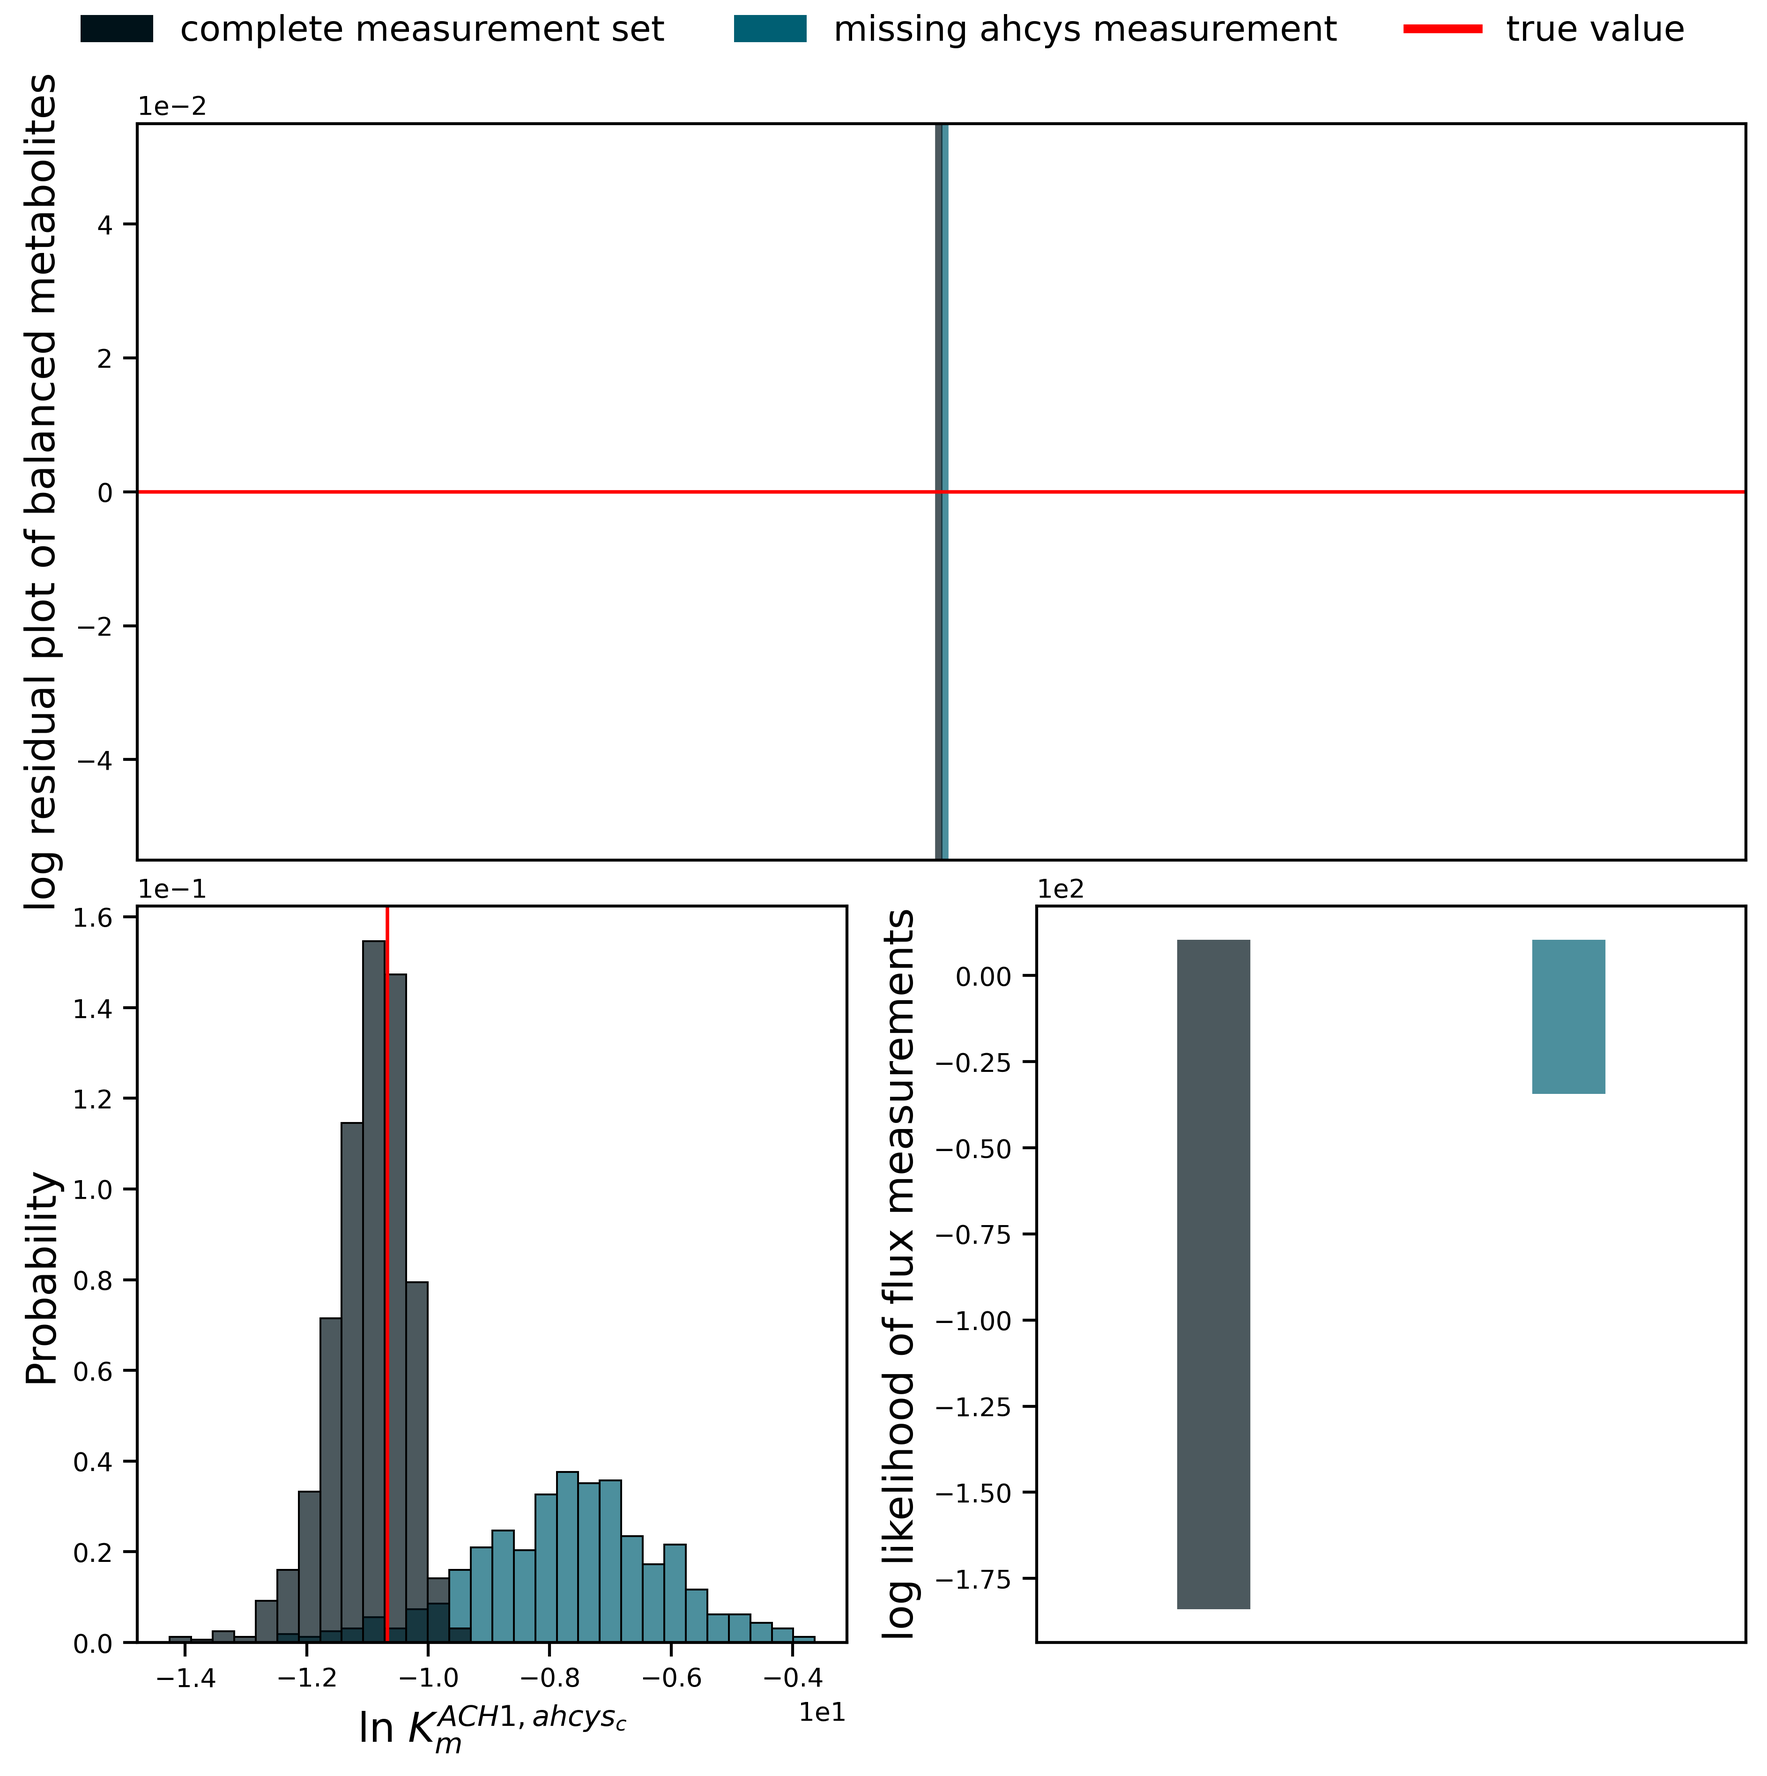
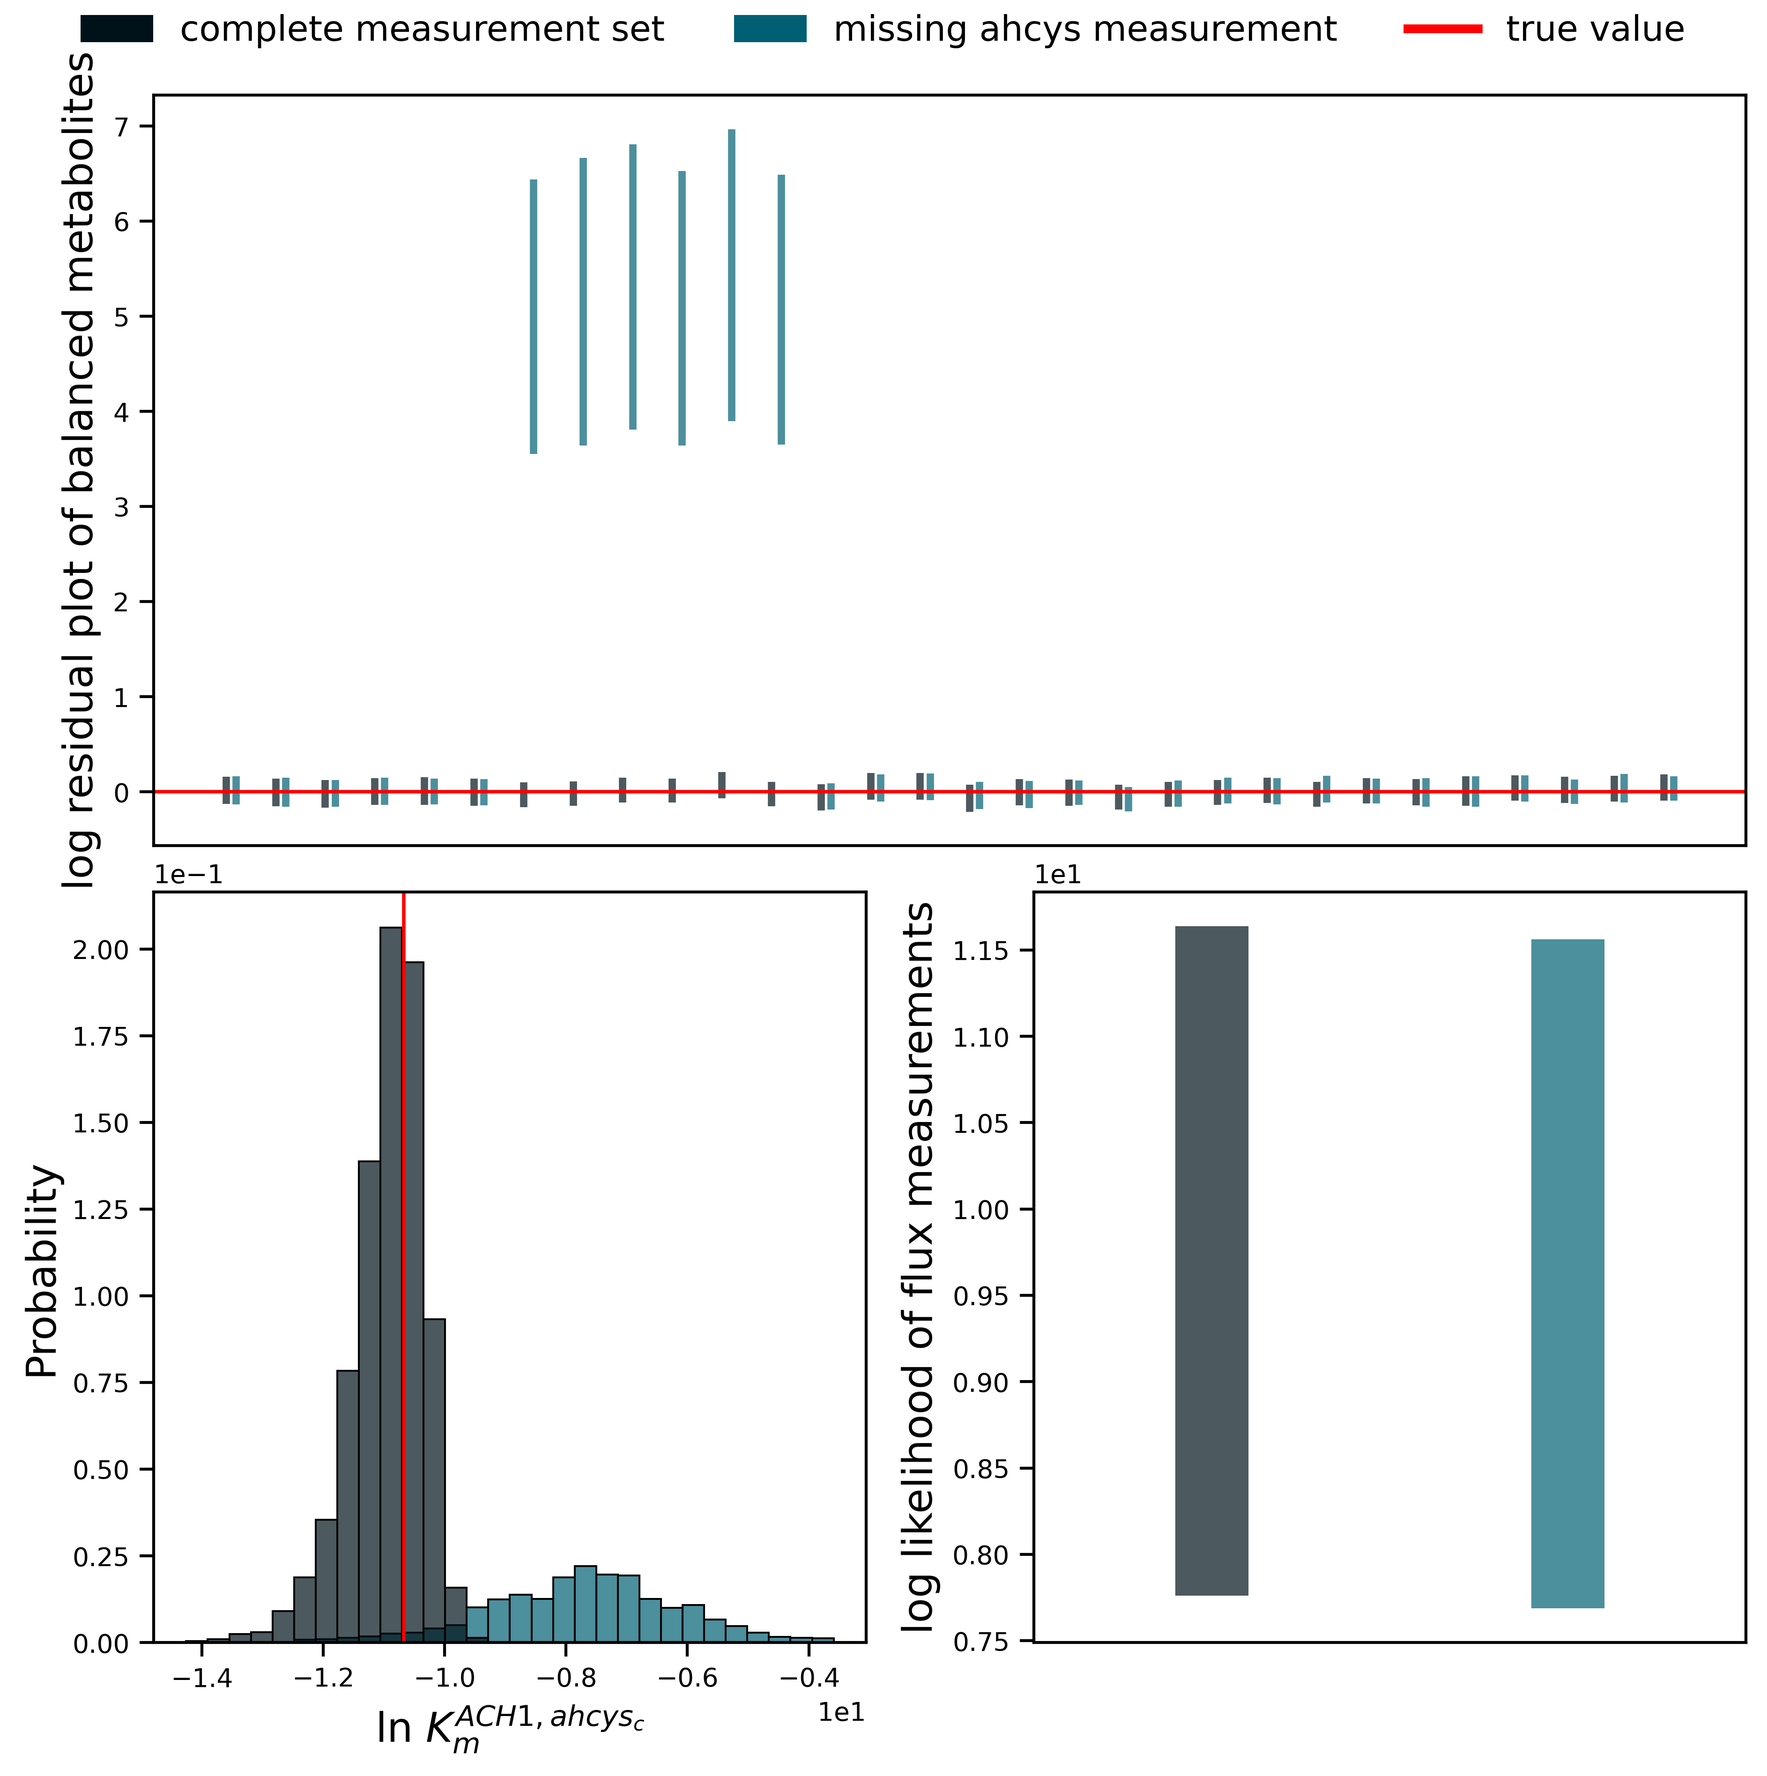
fix figure 3

diff --git a/plot_figure_3.py b/plot_figure_3.py
@@ -31,7 +31,7 @@ from matplotlib.lines import Line2D
 from maud.loading_maud_inputs import load_maud_input
 from maud.getting_idatas import get_idata
 
-plt.style.use('ipynb')
+plt.style.use("ipynb")
 
 
 HELP_MSG = """
@@ -47,52 +47,49 @@ PLOT_OUTPUT = Path.cwd() / "figures" / "figure_3.png"
 
 colour_scheme = {
     "complete measurement set": "#001219",
-    "missing ahcys measurement": "#005F73"
+    "missing ahcys measurement": "#005F73",
 }
 
 OFFSET = 0.05
-cm = 1/2.54  # centimeters in inches
+cm = 1 / 2.54  # centimeters in inches
+
 
 def plot_residual_state_variables(residual_df, ax):
-    offset = lambda p: transforms.ScaledTranslation(p/72.,0, plt.gcf().dpi_scale_trans)
-    for id, sample in residual_df.loc[residual_df["model"]=="missing ahcys measurement"].reset_index().iterrows():
+    # offset = lambda p: transforms.ScaledTranslation(
+    #     p / 72.0, 0, plt.gcf().dpi_scale_trans
+    # )
+    for model, direction in zip(
+        ["missing ahcys measurement", "complete measurement set"], [1, -1]
+    ):
+        df = residual_df.loc[lambda df: df["model"] == model]
+        x = np.arange(len(df)) + 0.1 * direction
         ax.vlines(
-            x=id,
-            ymin=sample[0.05],
-            ymax=sample[0.95],
+            x=x,
+            ymin=df[0.05],
+            ymax=df[0.95],
             linewidth=2.5,
-            color=colour_scheme["missing ahcys measurement"],
-            transform=ax.transData+offset(+1),
+            color=colour_scheme[model],
             alpha=0.7,
         )
-    for id, sample in residual_df.loc[residual_df["model"]=="complete measurement set"].reset_index().iterrows():
-        ax.vlines(
-            x=id,
-            ymin=sample[0.05],
-            ymax=sample[0.95],
-            linewidth=2.5,
-            color=colour_scheme["complete measurement set"],
-            transform=ax.transData+offset(-1),
-            alpha=0.7
-        )
-    ax.axhline(y=0, xmin=0, xmax=len(residual_df)/2, color="red")
+    ax.axhline(y=0, xmin=0, xmax=len(residual_df) / 2, color="red")
     ax.set_ylabel("log residual plot of balanced metabolites")
     ax.get_xaxis().set_visible(False)
     return ax
 
+
 def plot_box(df, ax):
     ax.vlines(
         x="complete measurement set",
-        ymin=df.loc[df["model"]=="complete measurement set"]["lower_5_lp"],
-        ymax=df.loc[df["model"]=="complete measurement set"]["upper_95_lp"],
+        ymin=df.loc[df["model"] == "complete measurement set"]["lower_5_lp"],
+        ymax=df.loc[df["model"] == "complete measurement set"]["upper_95_lp"],
         linewidth=25,
         color=colour_scheme["complete measurement set"],
         alpha=0.7,
     )
     ax.vlines(
         x="missing ahcys_c measurement",
-        ymin=df.loc[df["model"]=="missing ahcys measurement"]["lower_5_lp"],
-        ymax=df.loc[df["model"]=="missing ahcys measurement"]["upper_95_lp"],
+        ymin=df.loc[df["model"] == "missing ahcys measurement"]["lower_5_lp"],
+        ymax=df.loc[df["model"] == "missing ahcys measurement"]["upper_95_lp"],
         linewidth=25,
         color=colour_scheme["missing ahcys measurement"],
         alpha=0.7,
@@ -102,122 +99,222 @@ def plot_box(df, ax):
     ax.get_xaxis().set_visible(False)
     return ax
 
+
 def ll_normal(value, mean, std):
-    return -np.log(2*np.pi)/2-np.log(std**2)/2-(value-mean)**2/(2*std**2)
+    return (
+        -np.log(2 * np.pi) / 2
+        - np.log(std**2) / 2
+        - (value - mean) ** 2 / (2 * std**2)
+    )
+
 
 def plot_parameter_hist(parameter_df, ax):
-    sns.histplot(parameter_df, x="ln_km", bins=30, hue="model", stat="probability", ax=ax, legend=False, alpha=0.7)
+    sns.histplot(
+        parameter_df,
+        x="ln_km",
+        bins=30,
+        hue="model",
+        stat="probability",
+        ax=ax,
+        legend=False,
+        alpha=0.7,
+    )
     ax.set_xlabel("ln $K_m^{ACH1, ahcys_c}$")
     ax.axvline(x=-10.6713582793, color="red")
     return ax
 
+
 def plot_figure():
     mi = load_maud_input(data_path=MAUD_OUTPUT / "user_input")
     mi_missing = load_maud_input(data_path=MAUD_OUTPUT_MISSING_AHCYS / "user_input")
-    csvs_methionine = [MAUD_OUTPUT/ "samples" / file for file in os.listdir(MAUD_OUTPUT/ "samples") if ".csv" in file]
+    csvs_methionine = [
+        MAUD_OUTPUT / "samples" / file
+        for file in os.listdir(MAUD_OUTPUT / "samples")
+        if ".csv" in file
+    ]
     infd_methionine = get_idata(csvs_methionine, mi=mi, mode="train")
-    csvs_methionine_missing = [MAUD_OUTPUT_MISSING_AHCYS/ "samples" / file for file in os.listdir(MAUD_OUTPUT_MISSING_AHCYS/ "samples") if ".csv" in file]
-    infd_methionine_missing = get_idata(csvs_methionine_missing, mi=mi_missing, mode="train")
+    csvs_methionine_missing = [
+        MAUD_OUTPUT_MISSING_AHCYS / "samples" / file
+        for file in os.listdir(MAUD_OUTPUT_MISSING_AHCYS / "samples")
+        if ".csv" in file
+    ]
+    infd_methionine_missing = get_idata(
+        csvs_methionine_missing, mi=mi_missing, mode="train"
+    )
 
-    flux_measurements = [{
-        "flux": meas.value, 
-        "uncertainty": meas.error_scale,
-        "reaction": meas.reaction, 
-        "experiment": meas.experiment
-    } 
-        for exp in mi.experiments 
-        for meas in exp.measurements 
-        if (meas.target_type=="flux")
+    flux_measurements = [
+        {
+            "flux": meas.value,
+            "uncertainty": meas.error_scale,
+            "reaction": meas.reaction,
+            "experiment": meas.experiment,
+        }
+        for exp in mi.experiments
+        for meas in exp.measurements
+        if (meas.target_type == "flux")
     ]
     flux_meas_df = pd.DataFrame.from_records(flux_measurements)
-    flux_meas_df["id"] = flux_meas_df["experiment"]+flux_meas_df["reaction"]
+    flux_meas_df["id"] = flux_meas_df["experiment"] + flux_meas_df["reaction"]
     flux_meas_df = flux_meas_df.set_index("id")
 
-    conc_measurements = [{
-        "conc": meas.value, 
-        "uncertainty": meas.error_scale,
-        "metabolite": meas.metabolite, 
-        "compartment": meas.compartment,
-        "experiment": meas.experiment
-    } 
-        for exp in mi.experiments 
-        for meas in exp.measurements 
-        if (meas.target_type=="mic")
+    conc_measurements = [
+        {
+            "conc": meas.value,
+            "uncertainty": meas.error_scale,
+            "metabolite": meas.metabolite,
+            "compartment": meas.compartment,
+            "experiment": meas.experiment,
+        }
+        for exp in mi.experiments
+        for meas in exp.measurements
+        if (meas.target_type == "mic")
     ]
     conc_meas_df = pd.DataFrame.from_records(conc_measurements)
-    conc_meas_df["id"] = conc_meas_df["experiment"]+conc_meas_df["metabolite"]+"_"+conc_meas_df["compartment"]
+    conc_meas_df["id"] = (
+        conc_meas_df["experiment"]
+        + conc_meas_df["metabolite"]
+        + "_"
+        + conc_meas_df["compartment"]
+    )
     conc_meas_df = conc_meas_df.set_index("id")
-        
+
     flux_lp_df = pd.DataFrame(columns=["lower_5_lp", "upper_95_lp", "model"])
-    flux_methionine = infd_methionine.posterior.flux_train.to_dataframe().dropna().droplevel(1).reset_index()
-    flux_methionine_missing = infd_methionine_missing.posterior.flux_train.to_dataframe().dropna().droplevel(1).reset_index()
+    flux_methionine = (
+        infd_methionine.posterior.flux_train.to_dataframe()
+        .dropna()
+        .droplevel(1)
+        .reset_index()
+    )
+    flux_methionine_missing = (
+        infd_methionine_missing.posterior.flux_train.to_dataframe()
+        .dropna()
+        .droplevel(1)
+        .reset_index()
+    )
 
     lp_flux_methionine = []
     for _, row in flux_methionine.iterrows():
-        id = row["experiments"]+row["reactions"]
+        id = row["experiments"] + row["reactions"]
         if id in flux_meas_df.index:
-            lp_flux_methionine.append(ll_normal(row["flux_train"],flux_meas_df.loc[id]["flux"],flux_meas_df.loc[id]["uncertainty"]))
-    flux_lp_df.loc[0,"lower_5_lp"] = np.quantile(lp_flux_methionine, 0.05)
-    flux_lp_df.loc[0,"upper_95_lp"] = np.quantile(lp_flux_methionine, 0.95)
+            lp_flux_methionine.append(
+                ll_normal(
+                    row["flux_train"],
+                    flux_meas_df.loc[id]["flux"],
+                    flux_meas_df.loc[id]["uncertainty"],
+                )
+            )
+    flux_lp_df.loc[0, "lower_5_lp"] = np.quantile(lp_flux_methionine, 0.05)
+    flux_lp_df.loc[0, "upper_95_lp"] = np.quantile(lp_flux_methionine, 0.95)
     flux_lp_df.loc[0, "model"] = "complete measurement set"
     lp_flux_methionine_missing = []
     for _, row in flux_methionine_missing.iterrows():
-        id = row["experiments"]+row["reactions"]
+        id = row["experiments"] + row["reactions"]
         if id in flux_meas_df.index:
-            lp_flux_methionine_missing.append(ll_normal(row["flux_train"],flux_meas_df.loc[id]["flux"],flux_meas_df.loc[id]["uncertainty"]))
+            lp_flux_methionine_missing.append(
+                ll_normal(
+                    row["flux_train"],
+                    flux_meas_df.loc[id]["flux"],
+                    flux_meas_df.loc[id]["uncertainty"],
+                )
+            )
 
-    flux_lp_df.loc[1,"lower_5_lp"] = np.quantile(lp_flux_methionine_missing, 0.05)
-    flux_lp_df.loc[1,"upper_95_lp"] = np.quantile(lp_flux_methionine_missing, 0.95)
+    flux_lp_df.loc[1, "lower_5_lp"] = np.quantile(lp_flux_methionine_missing, 0.05)
+    flux_lp_df.loc[1, "upper_95_lp"] = np.quantile(lp_flux_methionine_missing, 0.95)
     flux_lp_df.loc[1, "model"] = "missing ahcys measurement"
 
     balanced_mics = [mic.id for mic in mi.kinetic_model.mics if mic.balanced == True]
-    conc_methionine = infd_methionine.posterior.conc_train.sel(mics=balanced_mics).to_dataframe().dropna().droplevel(1).reset_index()
+    conc_methionine = (
+        infd_methionine.posterior.conc_train.sel(mics=balanced_mics)
+        .to_dataframe()
+        .dropna()
+        .droplevel(1)
+        .reset_index()
+    )
     conc_methionine["model"] = "complete measurement set"
-    conc_methionine_missing = infd_methionine_missing.posterior.conc_train.sel(mics=balanced_mics).to_dataframe().dropna().droplevel(1).reset_index()
+    conc_methionine_missing = (
+        infd_methionine_missing.posterior.conc_train.sel(mics=balanced_mics)
+        .to_dataframe()
+        .dropna()
+        .droplevel(1)
+        .reset_index()
+    )
     conc_methionine_missing["model"] = "missing ahcys measurement"
 
-    met_AHC1_ahcys = infd_methionine.posterior.km.sel(kms=["AHC1_ahcys_c"]).to_dataframe().reset_index()
+    met_AHC1_ahcys = (
+        infd_methionine.posterior.km.sel(kms=["AHC1_ahcys_c"])
+        .to_dataframe()
+        .reset_index()
+    )
     met_AHC1_ahcys["model"] = "complete measurement set"
-    met_missing_ahcys_AHC1_ahcys = infd_methionine_missing.posterior.km.sel(kms=["AHC1_ahcys_c"]).to_dataframe().reset_index()
+    met_missing_ahcys_AHC1_ahcys = (
+        infd_methionine_missing.posterior.km.sel(kms=["AHC1_ahcys_c"])
+        .to_dataframe()
+        .reset_index()
+    )
     met_missing_ahcys_AHC1_ahcys["model"] = "missing ahcys measurement"
-    AHC1_ahcys_df = pd.concat([met_AHC1_ahcys, met_missing_ahcys_AHC1_ahcys]).reset_index()
+    AHC1_ahcys_df = pd.concat(
+        [met_AHC1_ahcys, met_missing_ahcys_AHC1_ahcys]
+    ).reset_index()
     AHC1_ahcys_df["ln_km"] = AHC1_ahcys_df["km"].apply(lambda x: np.log(x))
 
     for i, row in conc_methionine.iterrows():
-        id = row["experiments"]+row["mics"]
-        conc_methionine.loc[i, "log_residual"] = np.log(row["conc_train"]) - np.log(conc_meas_df.loc[id]["conc"])
-    conc_methionine = conc_methionine.loc[conc_methionine["experiments"]!="validation"]
-   
+        id = row["experiments"] + row["mics"]
+        conc_methionine.loc[i, "log_residual"] = np.log(row["conc_train"]) - np.log(
+            conc_meas_df.loc[id]["conc"]
+        )
+    conc_methionine = conc_methionine.loc[
+        conc_methionine["experiments"] != "validation"
+    ]
+
     for i, row in conc_methionine_missing.iterrows():
-        id = row["experiments"]+row["mics"]
-        conc_methionine_missing.loc[i, "log_residual"] = np.log(row["conc_train"]) - np.log(conc_meas_df.loc[id]["conc"])
-    conc_methionine_missing = conc_methionine_missing.loc[conc_methionine_missing["experiments"]!="validation"]
+        id = row["experiments"] + row["mics"]
+        conc_methionine_missing.loc[i, "log_residual"] = np.log(
+            row["conc_train"]
+        ) - np.log(conc_meas_df.loc[id]["conc"])
+    conc_methionine_missing = conc_methionine_missing.loc[
+        conc_methionine_missing["experiments"] != "validation"
+    ]
 
     conc_validation = pd.concat([conc_methionine, conc_methionine_missing], axis=0)
-    conc_validation = conc_validation.groupby(["experiments", "mics","model"])\
-                                     .quantile([0.05, 0.95])\
-                                     .reset_index()\
-                                     .pivot(index=["mics", "experiments", "model"], columns="level_3", values="log_residual")\
-                                     .reset_index()
+    conc_validation = (
+        conc_validation.groupby(["experiments", "mics", "model"])
+        .quantile([0.05, 0.95])
+        .reset_index()
+        .pivot(
+            index=["mics", "experiments", "model"],
+            columns="level_3",
+            values="log_residual",
+        )
+        .reset_index()
+    )
 
     # calling plotting scripts
-    cm = 1/2.54  # centimeters in inches
-    sns.set_context("paper", rc={"font.size":14,"axes.titlesize":14,"axes.labelsize":14})
+    cm = 1 / 2.54  # centimeters in inches
+    sns.set_context(
+        "paper", rc={"font.size": 14, "axes.titlesize": 14, "axes.labelsize": 14}
+    )
 
-    fig = plt.figure(constrained_layout=True, figsize = (21.0*cm, 21.0*cm))
+    fig = plt.figure(constrained_layout=True, figsize=(21.0 * cm, 21.0 * cm))
     gs = GridSpec(2, 2, figure=fig)
 
-    samples_legend = mpatches.Patch(color=colour_scheme["complete measurement set"], label="complete measurement set")
-    measurements_legend = mpatches.Patch(color=colour_scheme["missing ahcys measurement"], label="missing ahcys measurement")
-    true_value_legend = Line2D([0], [0], color='r', lw=3, label='true value')
+    samples_legend = mpatches.Patch(
+        color=colour_scheme["complete measurement set"],
+        label="complete measurement set",
+    )
+    measurements_legend = mpatches.Patch(
+        color=colour_scheme["missing ahcys measurement"],
+        label="missing ahcys measurement",
+    )
+    true_value_legend = Line2D([0], [0], color="r", lw=3, label="true value")
 
-
-    fig.legend(handles=[samples_legend, measurements_legend, true_value_legend], 
-               loc='upper center',
-               ncol=3, 
-               borderaxespad=0.,
-               fontsize=12,)
-    fig.suptitle(' ')
+    fig.legend(
+        handles=[samples_legend, measurements_legend, true_value_legend],
+        loc="upper center",
+        ncol=3,
+        borderaxespad=0.0,
+        fontsize=12,
+    )
+    fig.suptitle(" ")
 
     ax0 = fig.add_subplot(gs[0, :])
     ax1 = fig.add_subplot(gs[1, 0])
@@ -227,6 +324,7 @@ def plot_figure():
     ax1 = plot_parameter_hist(AHC1_ahcys_df, ax1)
     ax2 = plot_box(flux_lp_df, ax2)
     fig.savefig(PLOT_OUTPUT)
+
 
 if __name__ == "__main__":
     plot_figure()
